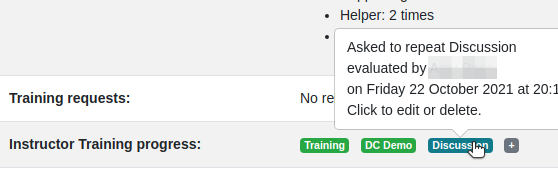
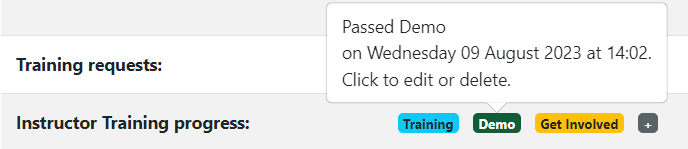
update docs for adding training progress

diff --git a/docs/users_guide/admin_index.md b/docs/users_guide/admin_index.md
@@ -376,14 +376,21 @@ Click on the plus sign in the Training Progress line. This will go to a screen w
 
 ![AMY training progress steps](images/new_training_progress.png)
 
-* **Trainee** Start typing in the person's name.  Auto-completed suggested names will appear.
-* **Type** This will be the training event (Training), the welcome session (Welcome Session), the teaching demo (Demo), or the lesson contribution (Lesson Contribution).  The lesson contribution type requires a link to the GitHub issue or PR.
+* **Trainee** The page will pre-select the trainee if possible. Otherwise, start typing in the person's name.  Auto-completed suggested names will appear.
+* **Type** This will be the training event (Training), the welcome session (Welcome Session), the teaching demo (Demo), or a community contribution (Get Involved). When a choice is made, additional fields may appear (see below).
 * **State** For the checkout type noted above, indicate if the trainee passed, was asked to repeat, or failed.  Failed should only be used in extreme circumstances.
-* **Notes** Any free notes from the admin.
+* **Notes** Any free notes from the admin. Notes must be provided if the state is set to Failed, or if certain Get Involved activities have been selected.
+
+Additional fields will appear depending on the Type selection:
+* **Event** The training event that the trainee attended. Only required when Type is set to Training.
+* **Get Involved activity** The activity that the trainee completed for the Get Involved step. Only required when Type is set to Get Involved.  
+Each activity, when selected, requires some or all of the **URL**, **Date**, and **Notes** fields to be filled as well. More information on these requirements can be found in the [community user guide](#submitting-your-get-involved-step). When you submit the form, the form will check that the correct fields have been filled and tell you if changes are needed. 
+* **URL** A URL to a GitHub contribution, workshop website, or other contribution. Only required for some Get Involved activities.
+* **Date** The date of the activity (not the date of submission). If the activity took place across multiple days, use the first day. Required for all Get Involved activities.
 
 ### Issuing Badges
 
-The Carpentries has various badges that can be issued, including Data Carpentry Instructor, Software Carpentry Instructor, Trainer, Maintainer, and more.  
+The Carpentries has various badges that can be issued, including Instructor, Trainer, Maintainer, and more.  
 
 An individual badge can be issued by going to a person's record and clicking the `Edit` button.  Choose the `Awards` tab on the next screen.  
 
